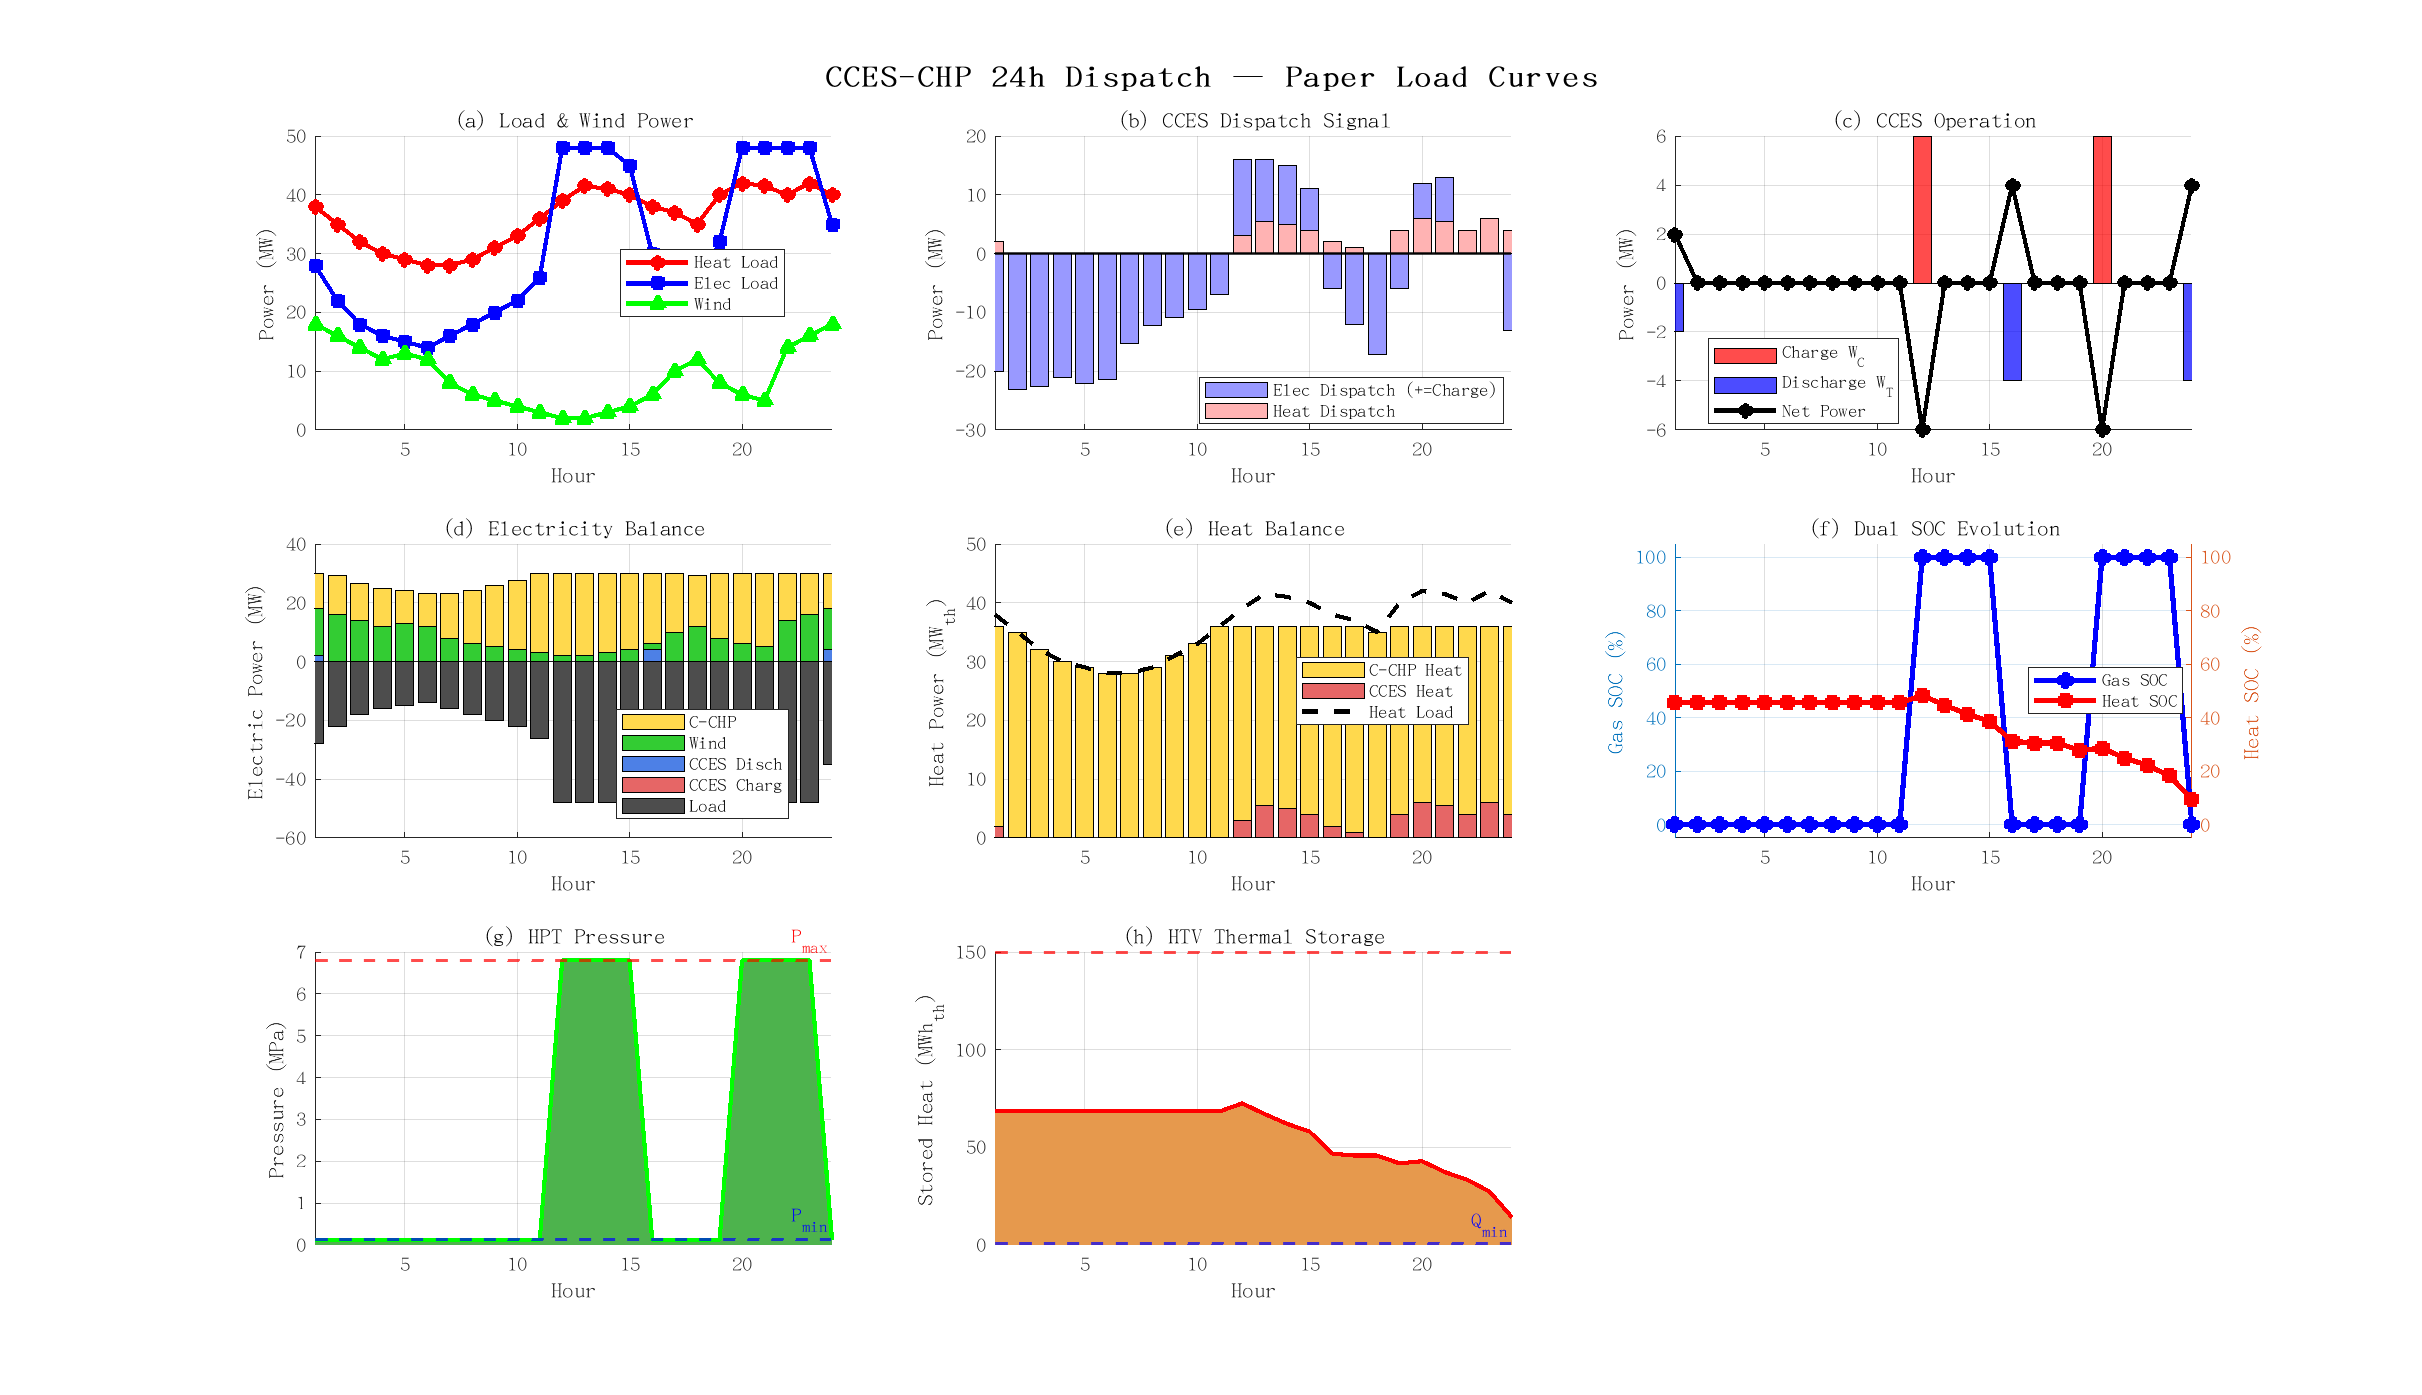
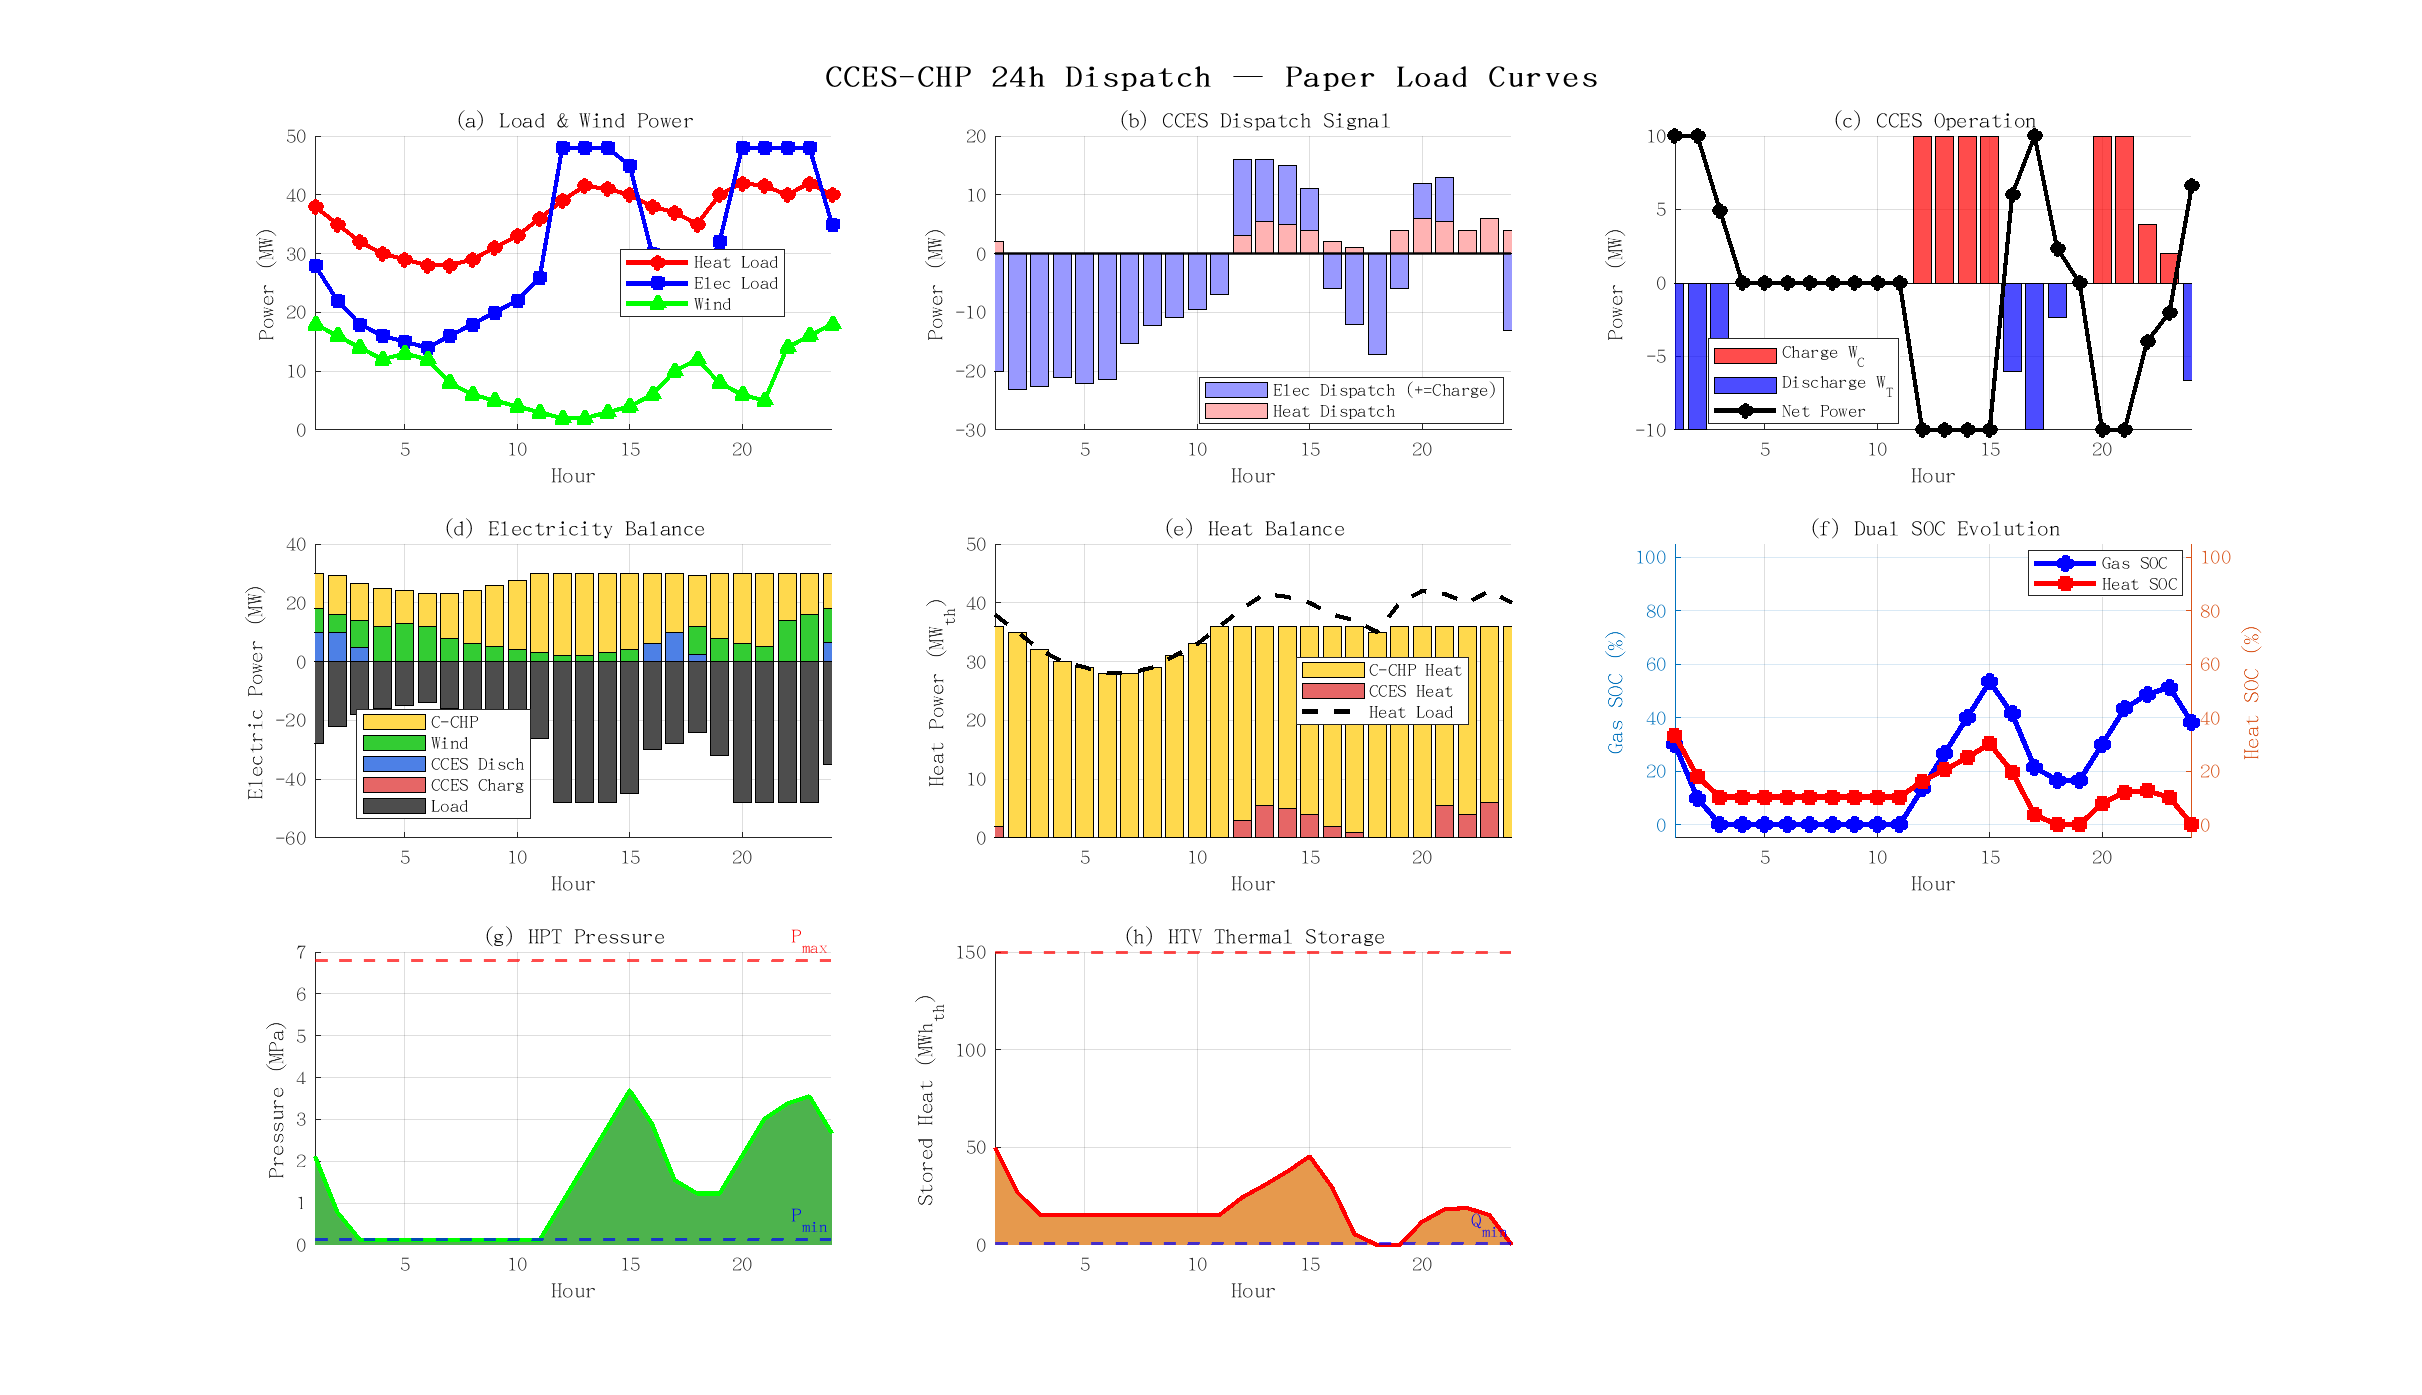
feat: resize HPT to 6228 m^3 to match 5h discharge design target
- Increase V_HPT from 500 to 6228 m^3 (12.5x) based on
  delta_m = alpha2 * W_design * t_discharge = 741,060 kg
- Update LPT to 10000 m^3 for low-pressure side
- Fix unit consistency: Rg in J/(kg·K) across all dispatch code
- 10MW charge now takes 7.5h, discharge takes 5.0h (matching paper)
- HPT pressure evolves smoothly (~0.9 MPa/h at 10MW) instead of jumping
- Bottleneck shifts from HPT pressure to HTV thermal storage

diff --git a/CCES_CHP_Simulink/src/run_paper_dispatch.m b/CCES_CHP_Simulink/src/run_paper_dispatch.m
@@ -32,10 +32,10 @@ beta2  = 2.307;          % Q_HR / W_T_E
 alpha1 = 2.744;          % m_charge / W_C_E [kg/(s·MW)]
 alpha2 = 4.117;          % m_discharge / W_T_E [kg/(s·MW)]
 
-% 储罐参数
-V_HPT = 500;             % m³
+% 储罐参数 (标定至5h满功率放电 @ 10MW)
+V_HPT = 6228;            % m³ (匹配 t_discharge=5h)
 T_HPT = 298;             % K
-Rg = 0.1889;             % kJ/(kg·K)
+Rg = 188.9;              % J/(kg·K) (SI单位)
 P_HPT_upper = 6.80;      % MPa
 P_HPT_lower = 0.12;      % MPa
 
@@ -105,7 +105,7 @@ for t = 1:N_hours
         % HPT上限约束: dm/dt = alpha1 * W [kg/(s·MW)*MW = kg/s]
         % dP = dm * Rg * T / (V * 1e6) [MPa], dt in seconds
         W_C_HPT = max(0, (P_HPT_upper - P_HPT_array(t)) * V_HPT * 1e6 ...
-                   / (Rg * 1000 * T_HPT) / dt_s / alpha1);
+                   / (Rg * T_HPT) / dt_s / alpha1);
 
         W_C_hourly(t) = min([W_C_target, W_C_HTV, W_C_HPT]);
 
@@ -123,7 +123,7 @@ for t = 1:N_hours
         % dP[MPa] = dm * Rg[kJ/(kg·K)] * T[K] / (V[m³] * 1e3[kJ/MJ]) / 1e3 →
         % dP = dm * Rg * T / (V * 1e6)
         dm_charge = alpha1 * W_C_hourly(t) * dt_s;
-        delta_P = dm_charge * (Rg * 1000) * T_HPT / (V_HPT * 1e6);
+        delta_P = dm_charge * Rg * T_HPT / (V_HPT * 1e6);
         P_HPT_array(t) = P_HPT_array(t) + delta_P;
 
     elseif Elec_Dispatch(t) < -0.5  % 需放电 (电网缺口 > 0.5 MW)
@@ -136,7 +136,7 @@ for t = 1:N_hours
         W_T_HTV = max(0, (Q_HTV_array(t) - Q_HTV_lower) / dt_h / beta2);
         % HPT下限约束: P drop = dm_out * Rg * T / (V * 1e6)
         W_T_HPT = max(0, (P_HPT_array(t) - P_HPT_lower) * V_HPT * 1e6 ...
-                   / ((Rg * 1000) * T_HPT) / dt_s / alpha2);
+                   / (Rg * T_HPT) / dt_s / alpha2);
 
         W_T_hourly(t) = min([W_T_target, W_T_HTV, W_T_HPT]);
 
@@ -150,7 +150,7 @@ for t = 1:N_hours
 
         Q_HTV_array(t) = Q_HTV_array(t) - (Q_return + Q_heat_hourly(t)) * dt_h;
         dm_disch = alpha2 * W_T_hourly(t) * dt_s;
-        delta_P = dm_disch * (Rg * 1000) * T_HPT / (V_HPT * 1e6);
+        delta_P = dm_disch * Rg * T_HPT / (V_HPT * 1e6);
         P_HPT_array(t) = P_HPT_array(t) - delta_P;
 
     else  % |Elec_Dispatch| <= 0.5 MW: 接近平衡

diff --git a/CCES_CHP_Simulink/src/CCES_parameters.m b/CCES_CHP_Simulink/src/CCES_parameters.m
@@ -42,9 +42,11 @@ params.P_T2_out = 0.12e6;     % T2 出口 [Pa] = 0.12 MPa
 params.P_AEHE_out = 0.102e6;  % AE-HE 出口 [Pa]
 params.P_LPT_nom = 0.102e6;   % LPT 额定 [Pa] = 0.102 MPa
 
-%% 储罐参数
-params.V_HPT = 500;         % HPT 容积 [m^3]
-params.V_LPT = 2000;        % LPT 容积 [m^3]（低压侧容积更大）
+%% 储罐参数 (标定至5h满功率放电, V_HPT = m_needed*R*T/ΔP)
+% m_needed = alpha2 * W_design * t_discharge_design = 4.117*10*5*3600 = 741,060 kg
+% V_HPT = 741060 * 188.9 * 298 / (6.698e6) = 6228 m³
+params.V_HPT = 6228;        % HPT 容积 [m^3] (标定至5h放电)
+params.V_LPT = 10000;       % LPT 容积 [m^3] (低压侧需更大)
 params.Rg_CO2 = 188.9;      % CO2 气体常数 [J/(kg·K)] (与 Pa 单位一致)
 params.T_HPT_store = 298;   % HPT 存储温度 [K]
 